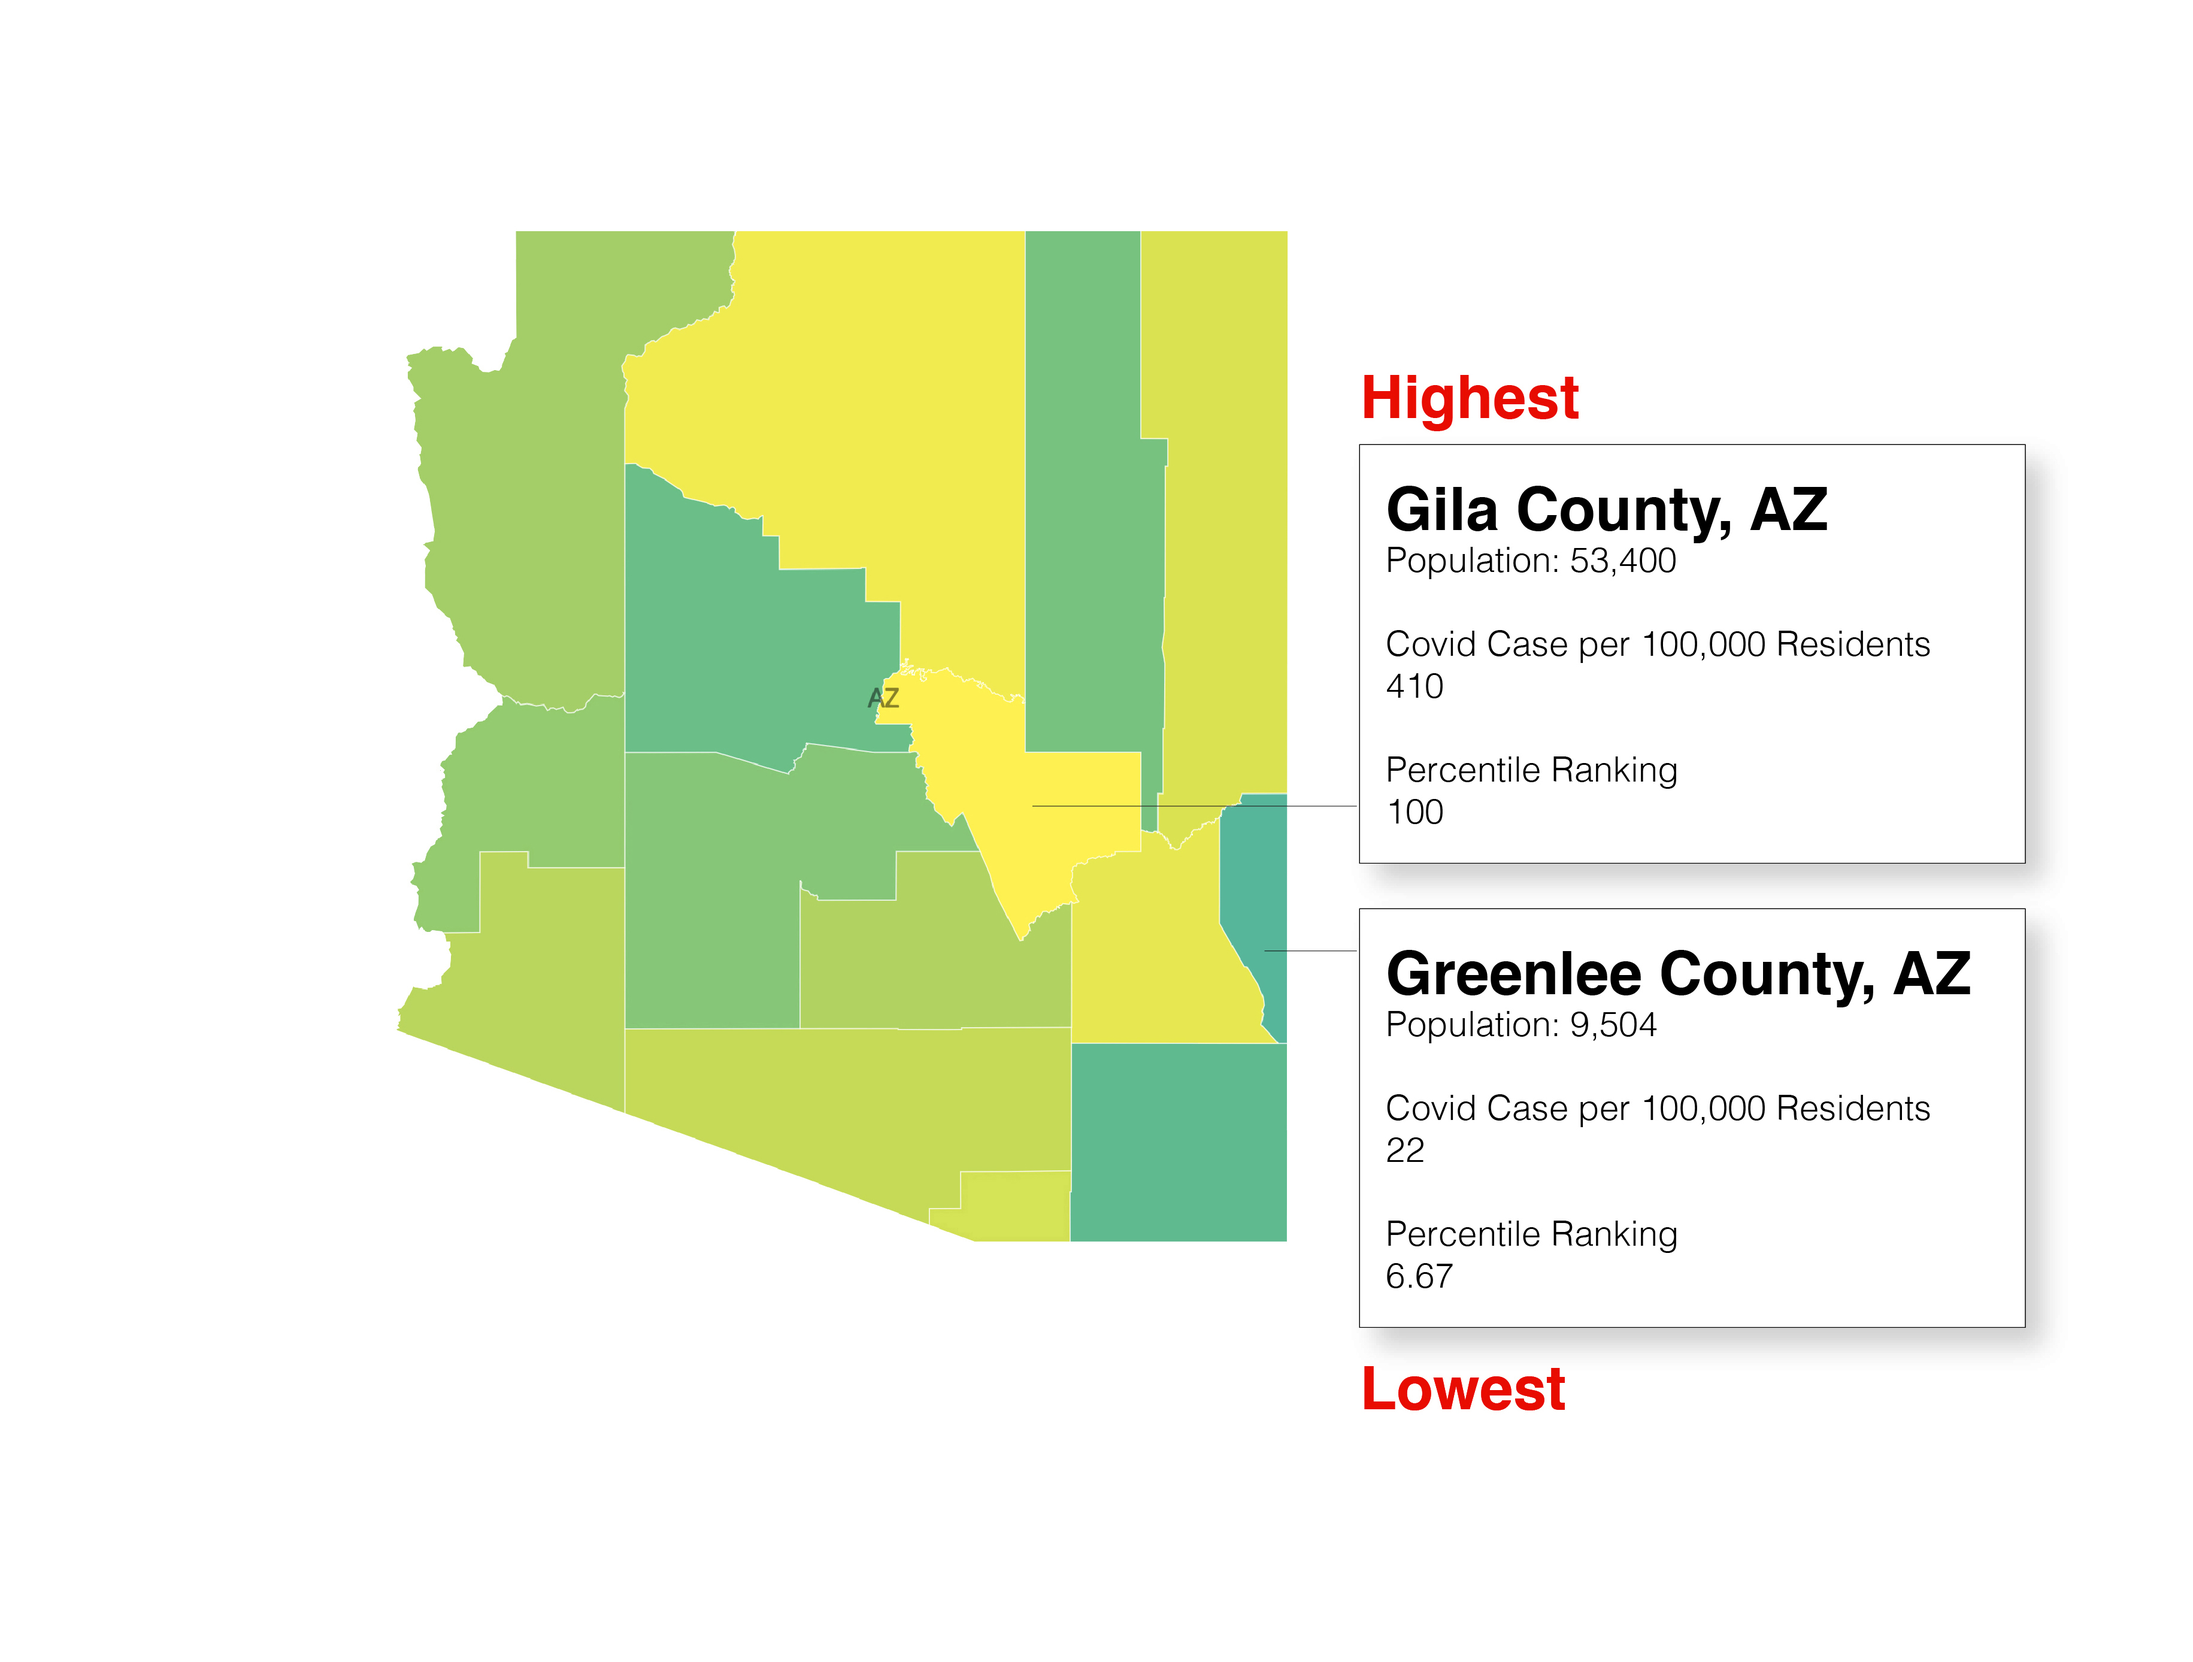
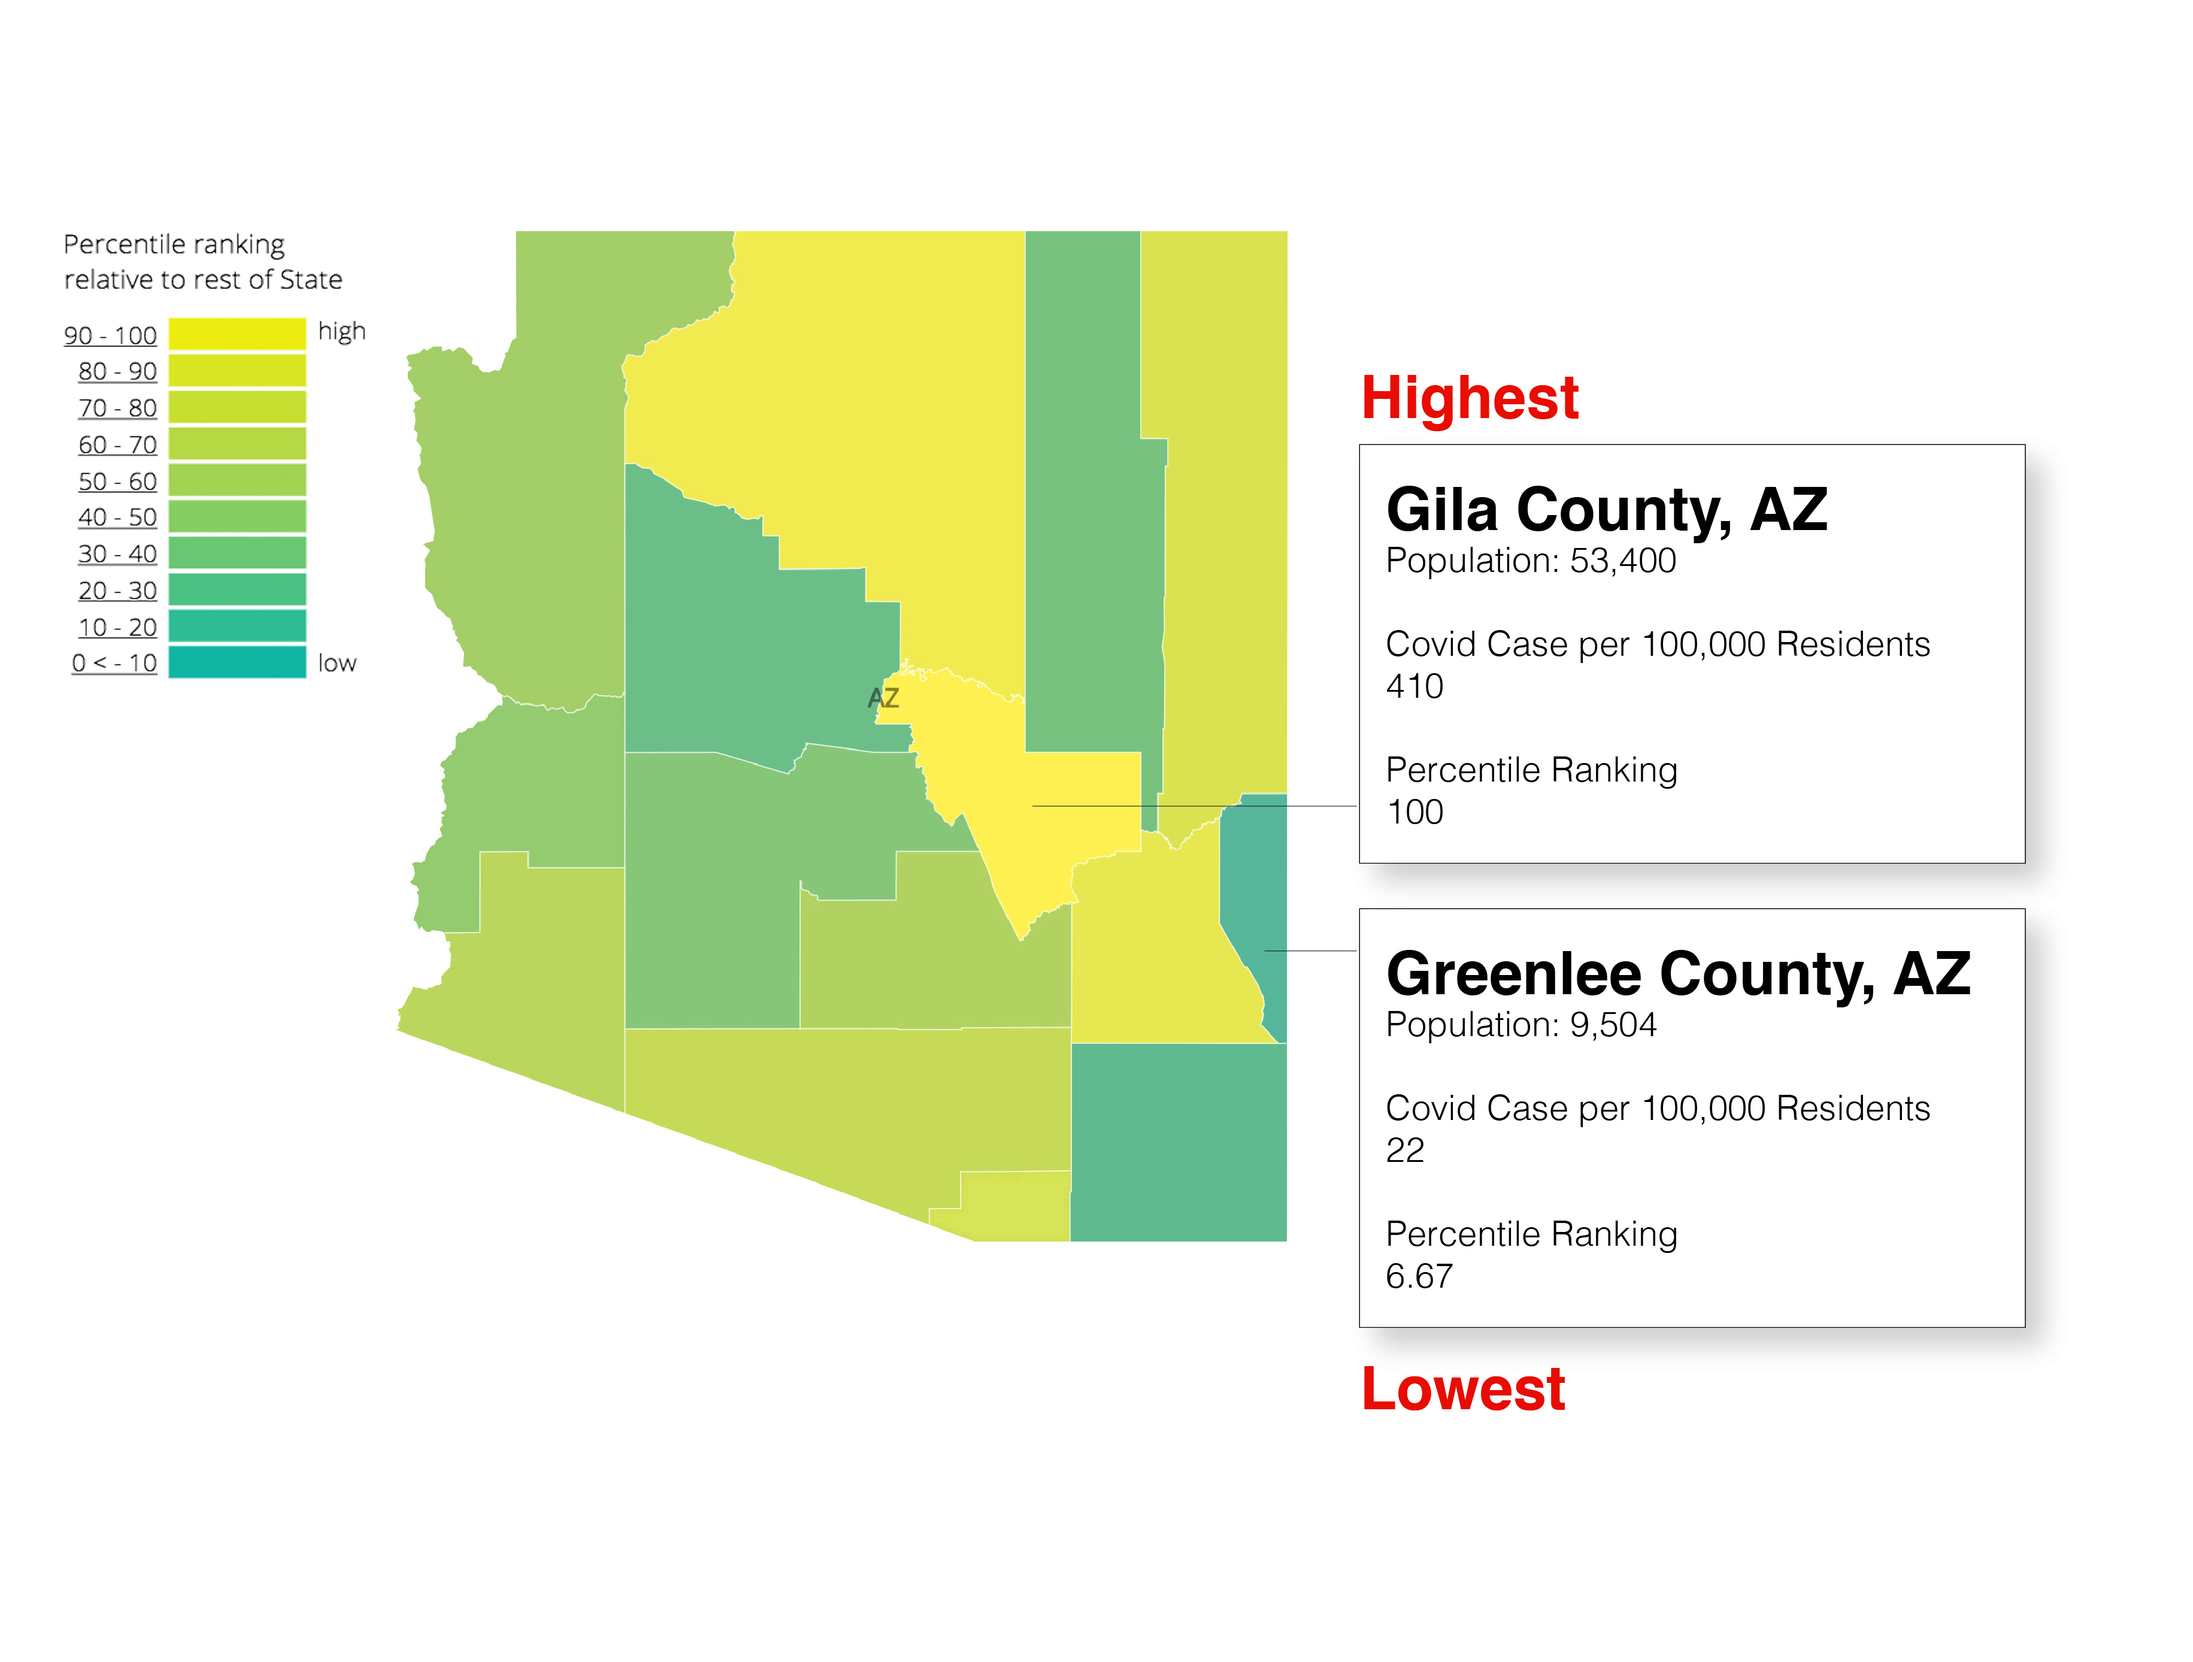
story edits

Changed region(s): [[0.0311, 0.124, 0.1557, 0.4339]]

diff --git a/story_config.js b/story_config.js
@@ -38,7 +38,9 @@ var config = {
         {
         id: 'vulnerabilities',
         title: 'Vulnerabilities',
-        description:"But communities can be vulnerable in many different ways. For example, the Centers for Disease Control's (CDC) Social Vulnerability Index (SVI*) aggregates fifteen factors related to socioeconomic status, household composition and disability, minority status and language, and housing type to define vulnerability in one single metric. But measured at a national scale, county by county, neither a single factor nor a single index can capture all of a community’s resource needs. Instead, we must examine vulnerability from many angles and perspectives."
+        description:
+            '<br><br><br><img src="images/story_draft2/key.png" width="200px">'
+        +"But communities can be vulnerable in many different ways. For example, the Centers for Disease Control's (CDC) Social Vulnerability Index (SVI*) aggregates fifteen factors related to socioeconomic status, household composition and disability, minority status and language, and housing type to define vulnerability in one single metric. But measured at a national scale, county by county, neither a single factor nor a single index can capture all of a community’s resource needs. Instead, we must examine vulnerability from many angles and perspectives."
             +"<br><br>Let's go to Arizona and we can show you what we mean.",
          location: {
                center: [-111, 34],
@@ -68,7 +70,7 @@ var config = {
             +"<br><br>SVI* calls attention to counties with the greatest number of its highly-vulnerable per-capita factors across the four areas of socioeconomic status, household composition and disability, minority status and language, and housing type. In Arizona we have ranked each of the fifteen counties according to its SVI* score relative to the other counties in the state. But this is not the only way to locate vulnerable populations.",
             location: {
                 //center: [-73, 30],
-                zoom:10
+                zoom:1
             },
             onChapterEnter: [
                 {
@@ -120,7 +122,7 @@ var config = {
             title: 'Of course, COVID has changed this landscape',
             image: '',
             description: 
-            '<br><br><br><img src="images/story_draft2/10062020_covid.png">'
+            '<img src="images/story_draft2/10062020_covid.png">'
             +'<br><br>The direct effects of COVID have exacerbated many of the pre-existing vulnerabilities in the US. But the pandemic has also revealed places with acute and immediate needs, where combating the epidemic requires an influx of community health workers. Sometimes long-term vulnerabilities and the impact of COVID coincide in our maps, but sometimes they do not. On September 24, here is the distribution of recent COVID cases over past two weeks in Arizona. Maricopa county, the most populous county in the state which had relatively lower values for the socioeconomic and preexisting health vulnerabilities has the highest current rate of infection.'
             +"<br><br><br><br><br><br><br><br><br><br><br><br><br><br><br><br><br><br><br><br><br>"
              +"<br><br><br><br><br><br>",
@@ -237,7 +239,7 @@ var config = {
             +" <br><br> In the map of the US here, we propose to allocate 1 million CHWs to states based on the proportion of Medicaid enrollees, so big states like New York, California and Texas, start off with 8.15%, 15.54% and 5.84% of the nation’s total CHW pool.", 
             location: {
                 center: [-112.039339, 33.459597],
-                zoom: 8,
+                zoom: 0,
                 pitch: 0,
                 bearing: 0
             },
